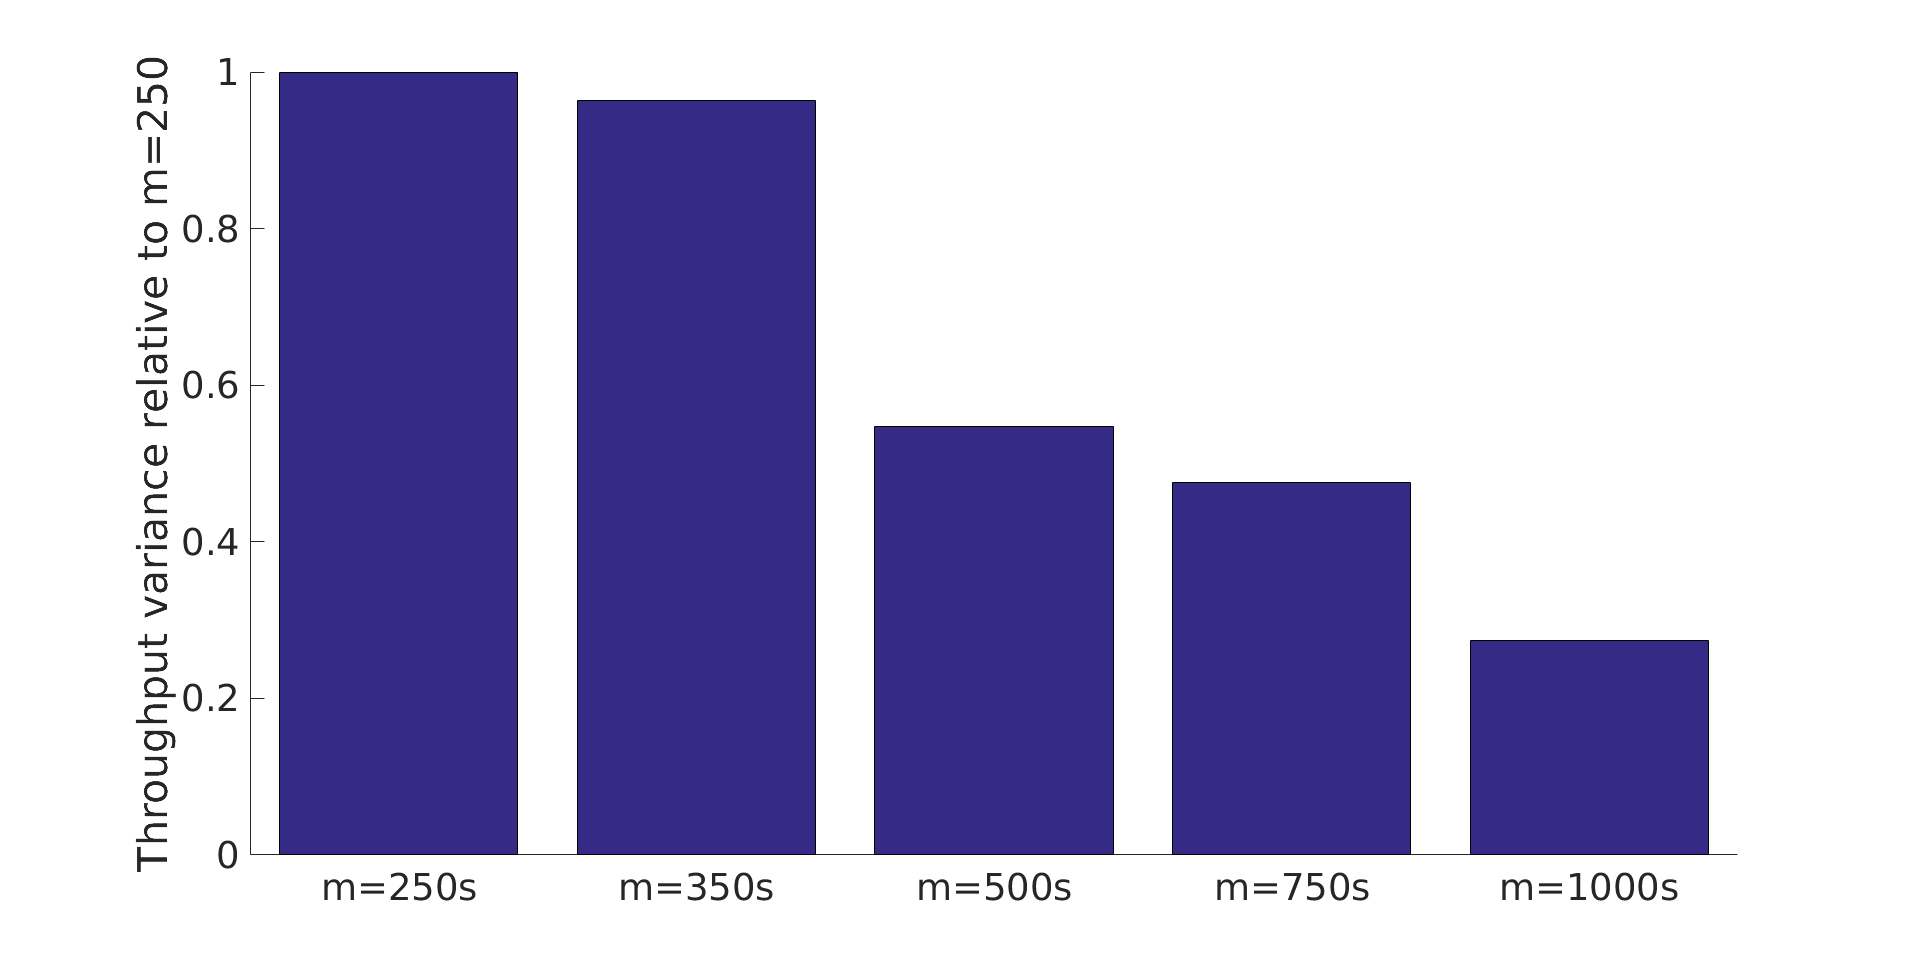
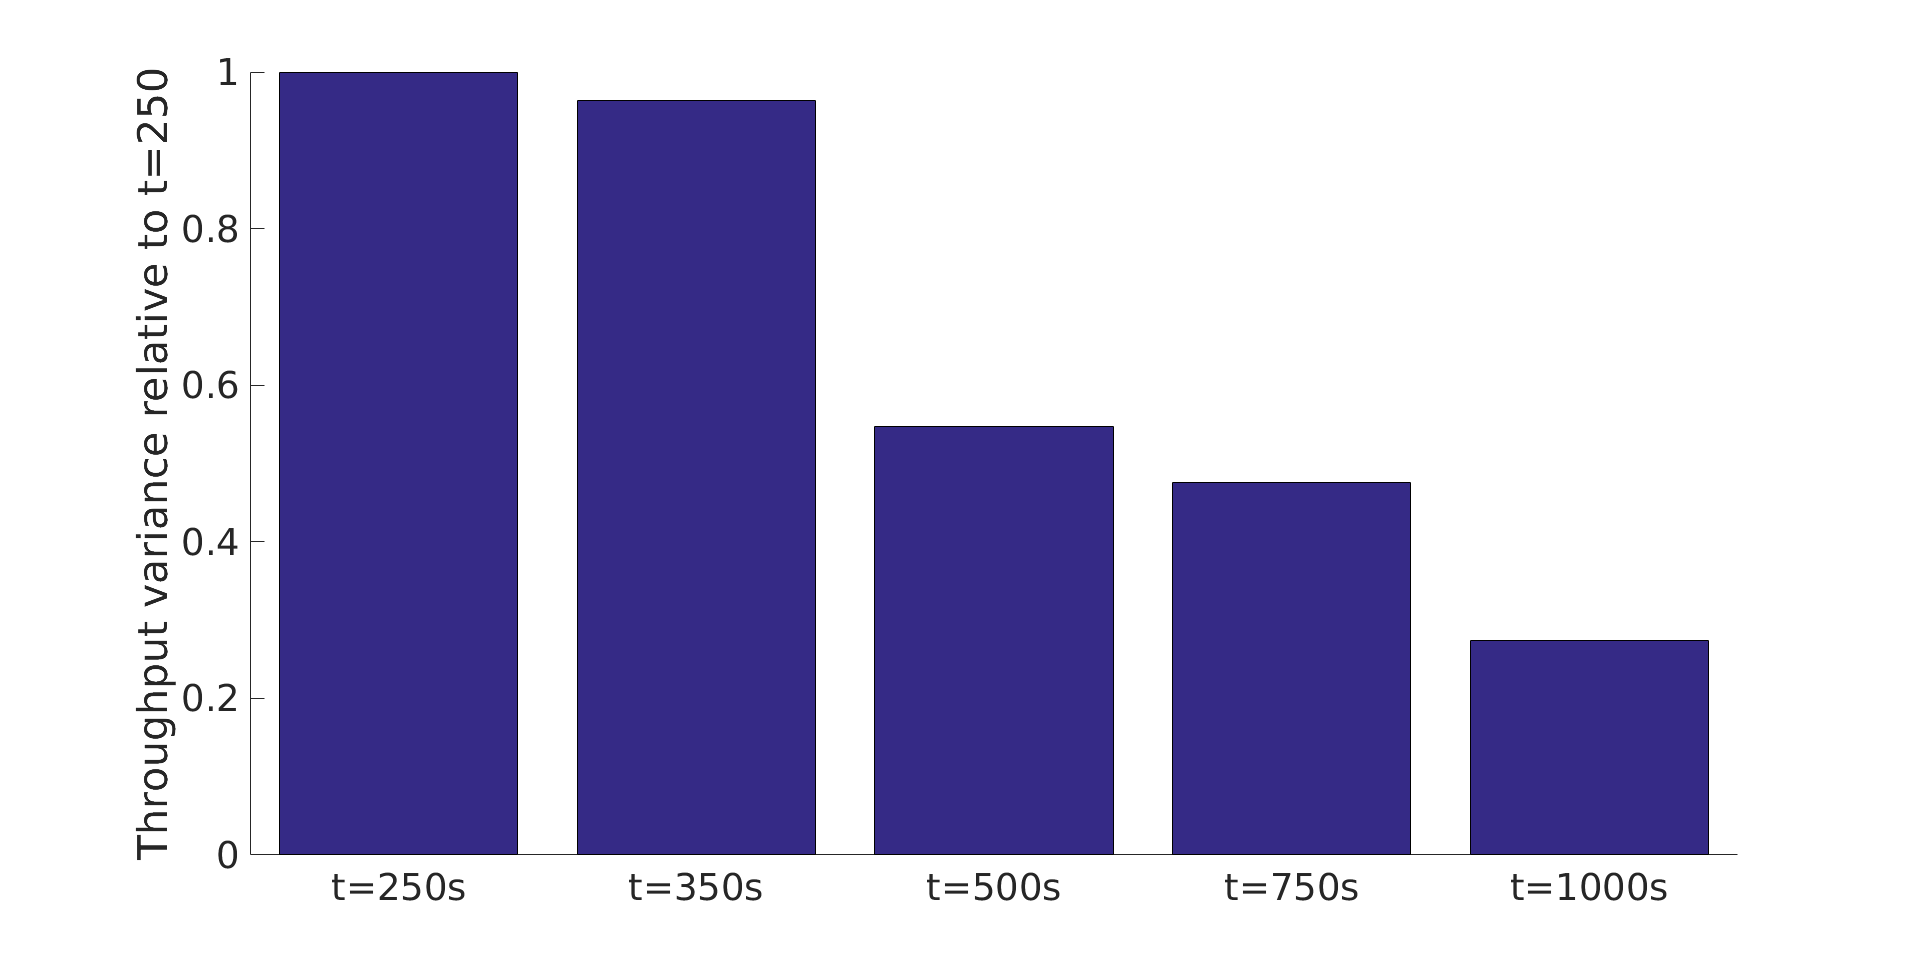
changed variable name of simtime from m to t

diff --git a/exam_project/latex/report.tex b/exam_project/latex/report.tex
@@ -111,17 +111,17 @@
 			
 			Our approach to this problem looks like this:
 			
-			We want to find a simulation time $m$ so that if we went through the throughput depicted in figure \ref{fig:5000s} and sliced it into time intervals of length $m$ - in a sliding window-like manner, and then averaged the throughput values inside the sliding windows, we want these means to be relatively close to each other. This would mean that our $m$ is large enough so that it does not matter much which sliding window we took, the result would be more or less the same. This is equivalent to looking at the variance of these mean values. We applied this procedure on the data from the $5000\text{s}$ run for all $m\in\{250\text{s},\, 350\text{s},\, 500\text{s},\, 750\text{s},\, 1000\text{s}\}$. The result can be seen in figure \ref{fig:relativevariance}.
+			We want to find a simulation time $t$ so that if we went through the throughput depicted in figure \ref{fig:5000s} and sliced it into time intervals of length $t$ - in a sliding window-like manner, and then averaged the throughput values inside the sliding windows, we want these means to be relatively close to each other. This would mean that our $t$ is large enough so that it does not matter much which sliding window we took, the result would be more or less the same. This is equivalent to looking at the variance of these mean values. We applied this procedure on the data from the $5000\text{s}$ run for all $t\in\{250\text{s},\, 350\text{s},\, 500\text{s},\, 750\text{s},\, 1000\text{s}\}$. The result can be seen in figure \ref{fig:relativevariance}.
 			
 			\begin{figure}[H]
 				\center\includegraphics[width=\textwidth]{../Get_Simulation_Parameters/relative_variance.png}
-				\caption{Relative variance of sliding window throughput means, where windows were of length $m$, on $5000\text{s}$ data}
+				\caption{Relative variance of sliding window throughput means, where windows were of length $t$, on $5000\text{s}$ data}
 				\label{fig:relativevariance}
 			\end{figure}
 			
-			One can observe that doubling $m$ from $m=250\text{s}$ to $m=500\text{s}$ roughly halves the variance. Increasing it further greatly increases the time required to run these simulations while gaining relatively little.
+			One can observe that doubling $t$ from $t=250\text{s}$ to $t=500\text{s}$ roughly halves the variance. Increasing it further greatly increases the time required to run these simulations while gaining relatively little.
 			
-			This led us to the decision of setting the simulation time $m=500\text{s}$.
+			This led us to the decision of setting the simulation time $t=500\text{s}$.
 			
 			\item[Number of Repetitions] As simulations rely on random events and those build upon pseudo-random numbers that we generate, it is important to run each and every simulation several times with new seeds for the random number generators in order to cover a meaningful number of possibilities with the goal of approximating real world behavior. 
 			

diff --git a/exam_project/Get_Simulation_Parameters/long_simulation_5000sec.m b/exam_project/Get_Simulation_Parameters/long_simulation_5000sec.m
@@ -38,6 +38,6 @@ for m1 = 1:length(m)
     variances = [variances, var(avgs)];    
 end
 bar(variances./variances(1));
-set(gca,'Xtick',1:5,'XTickLabel',{'m=250s','m=350s', 'm=500s', 'm=750s', 'm=1000s'})
-ylabel('Throughput variance relative to m=250');
+set(gca,'Xtick',1:5,'XTickLabel',{'t=250s','t=350s', 't=500s', 't=750s', 't=1000s'})
+ylabel('Throughput variance relative to t=250');
 hold off
